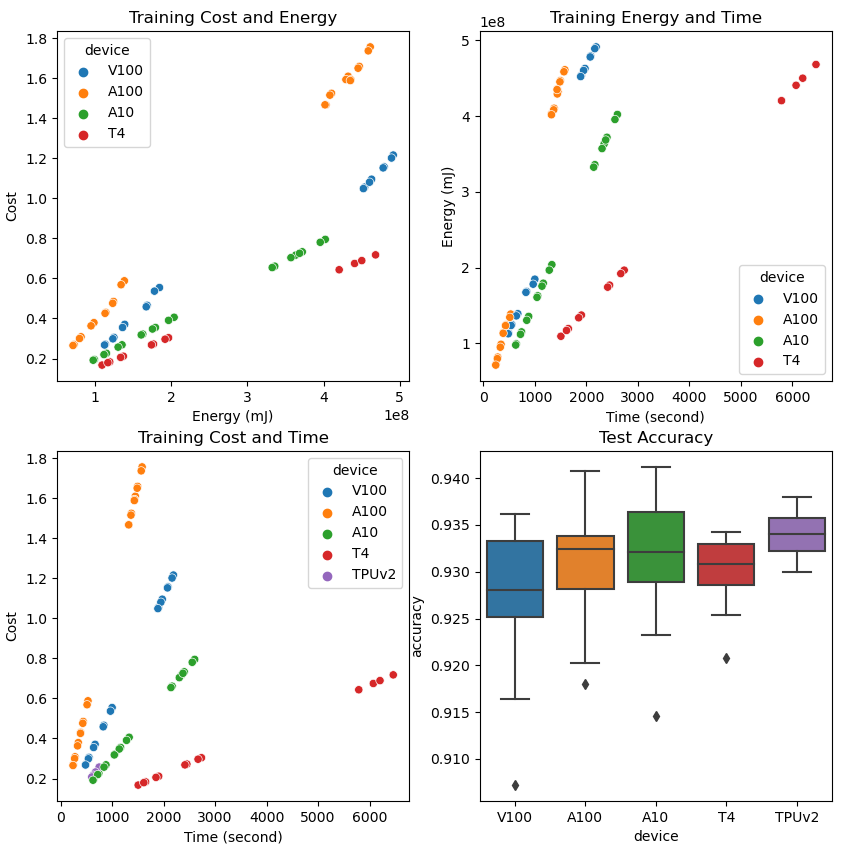
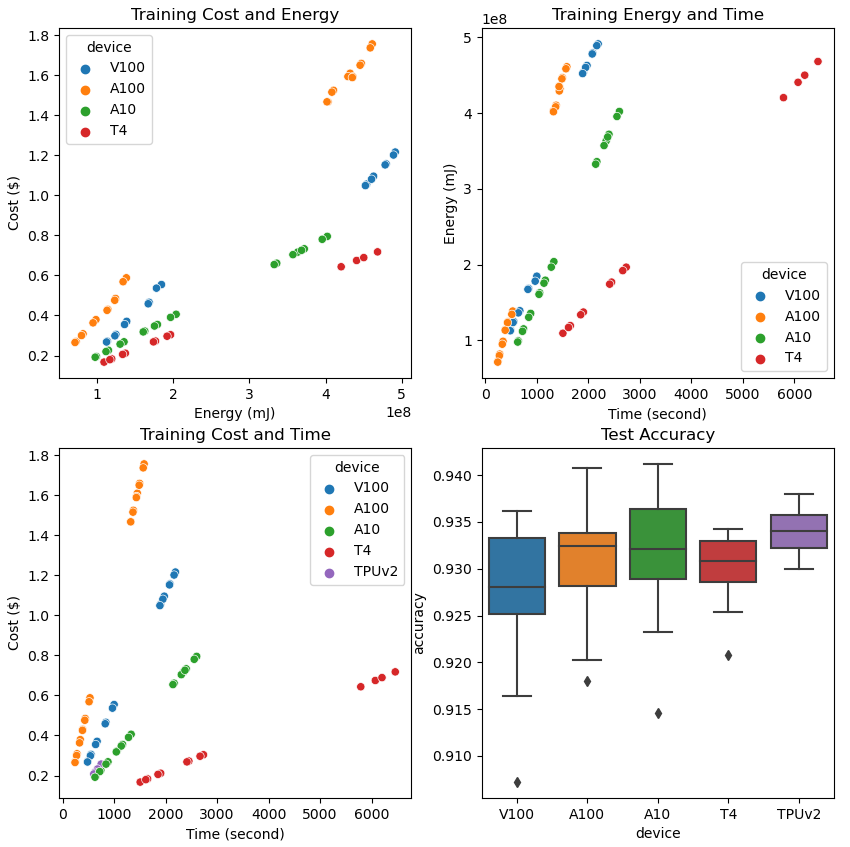
update

diff --git a/benchmark/systematic_graph.py b/benchmark/systematic_graph.py
@@ -32,16 +32,16 @@ ax[1, 1].set_title('Test Accuracy')
 sns.boxplot(data=df, x='device', y='accuracy', palette=device_color, ax=ax[1, 1])
 
 # 3nd subplot, x is cost, y is time
-ax[1, 0].set(ylabel='Cost', xlabel='Time (second)')
+ax[1, 0].set(ylabel='Cost ($)', xlabel='Time (second)')
 ax[1, 0].set_title('Training Cost and Time')
 sns.scatterplot(data=df, y='cost', x='time', hue='device', palette=device_color, ax=ax[1, 0])
 
 # 4th subplot, x is cost, y is energy
-ax[0, 0].set(ylabel='Cost', xlabel='Energy (mJ)')
+ax[0, 0].set(ylabel='Cost ($)', xlabel='Energy (mJ)')
 ax[0, 0].set_title('Training Cost and Energy')
 sns.scatterplot(data=df[df['device']!='TPUv2'], y='cost', x='energy', hue='device', palette=device_color, ax=ax[0, 0])
 
-plt.savefig('test_graph.png')
+plt.savefig('overall_results.png')
 
 # new figure for {v100 lightseq fused adan, batch size=16, 32}, {A100 huggingface fused adan, batch size=16 32}
 fig, ax = plt.subplots(1, 1, figsize=(6, 6))
